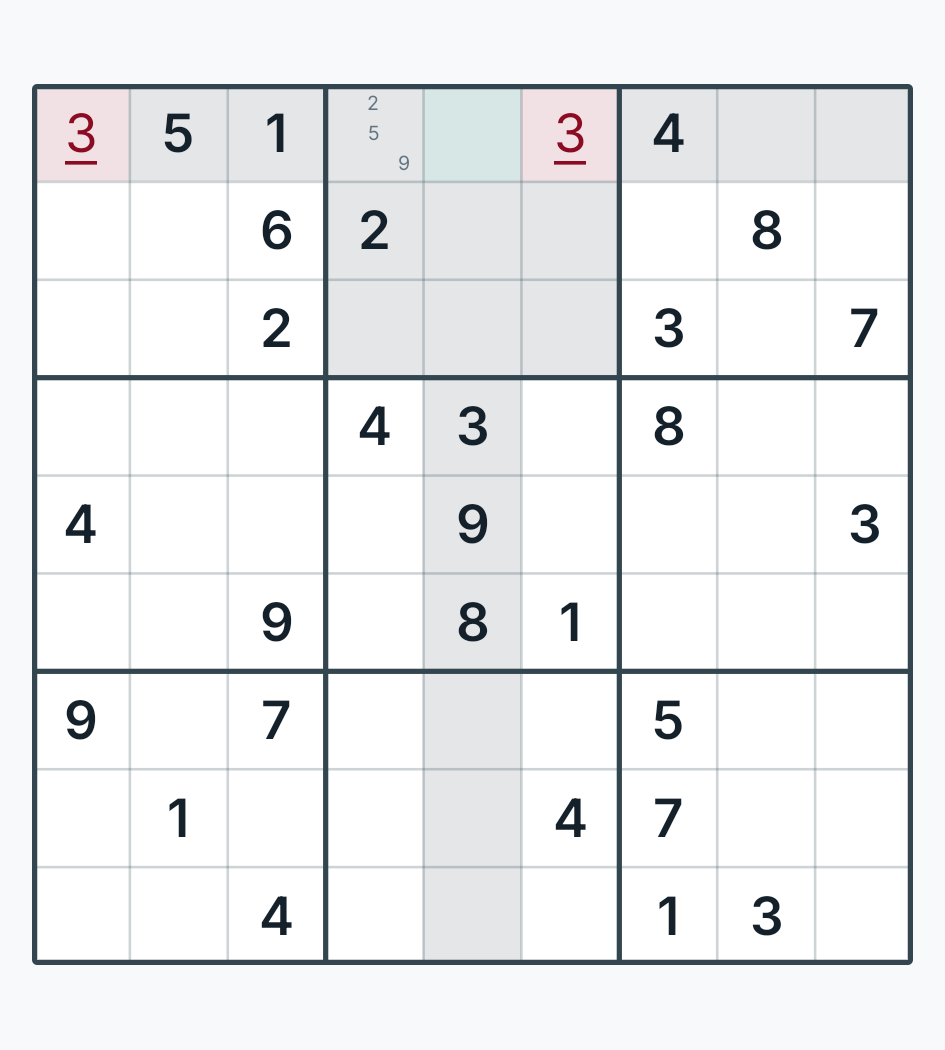
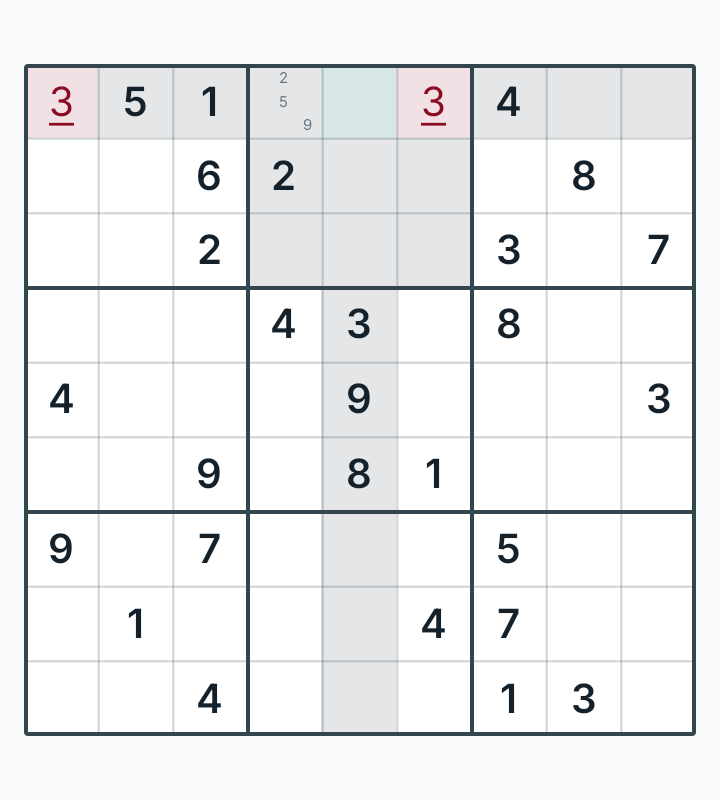
pin the screenshot density so the references work on any device

diff --git a/app/src/androidTest/kotlin/com/sendoku/app/ui/ThemeScreenshotTest.kt b/app/src/androidTest/kotlin/com/sendoku/app/ui/ThemeScreenshotTest.kt
@@ -7,11 +7,14 @@ import androidx.compose.foundation.layout.fillMaxSize
 import androidx.compose.foundation.layout.padding
 import androidx.compose.foundation.layout.size
 import androidx.compose.runtime.Composable
+import androidx.compose.runtime.CompositionLocalProvider
 import androidx.compose.ui.Modifier
 import androidx.compose.ui.graphics.asAndroidBitmap
+import androidx.compose.ui.platform.LocalDensity
 import androidx.compose.ui.test.captureToImage
 import androidx.compose.ui.test.junit4.v2.createComposeRule
 import androidx.compose.ui.test.onRoot
+import androidx.compose.ui.unit.Density
 import androidx.compose.ui.unit.dp
 import androidx.test.platform.app.InstrumentationRegistry
 import com.sendoku.app.game.GameState
@@ -128,16 +131,30 @@ class ThemeScreenshotTest {
         }
     }
 
+    /**
+     * The scene, pinned to a density of its own.
+     *
+     * The size below is in density pixels, so without this the picture comes out a different
+     * number of real pixels on every device: 945 by 1050 on a 420 dpi phone, something else on
+     * a 480 dpi one. The comparison then fails on all one hundred percent of the pixels,
+     * which is what it did in CI on every push while passing here.
+     *
+     * Two is chosen because it is a round number, not because any particular phone uses it.
+     * The font scale is pinned for the same reason: a device left at 1.15 would rewrite every
+     * reference image the first time somebody ran this on it.
+     */
     @Composable
     private fun Scene(theme: SendokuThemeId, dark: Boolean) {
-        SendokuTheme(themeId = theme, dark = dark) {
-            Box(
-                Modifier
-                    .size(360.dp, 400.dp)
-                    .background(Sendoku.colors.background)
-                    .padding(12.dp),
-            ) {
-                SudokuBoard(state = scene(), onSelect = {}, modifier = Modifier.fillMaxSize())
+        CompositionLocalProvider(LocalDensity provides Density(density = 2f, fontScale = 1f)) {
+            SendokuTheme(themeId = theme, dark = dark) {
+                Box(
+                    Modifier
+                        .size(360.dp, 400.dp)
+                        .background(Sendoku.colors.background)
+                        .padding(12.dp),
+                ) {
+                    SudokuBoard(state = scene(), onSelect = {}, modifier = Modifier.fillMaxSize())
+                }
             }
         }
     }
